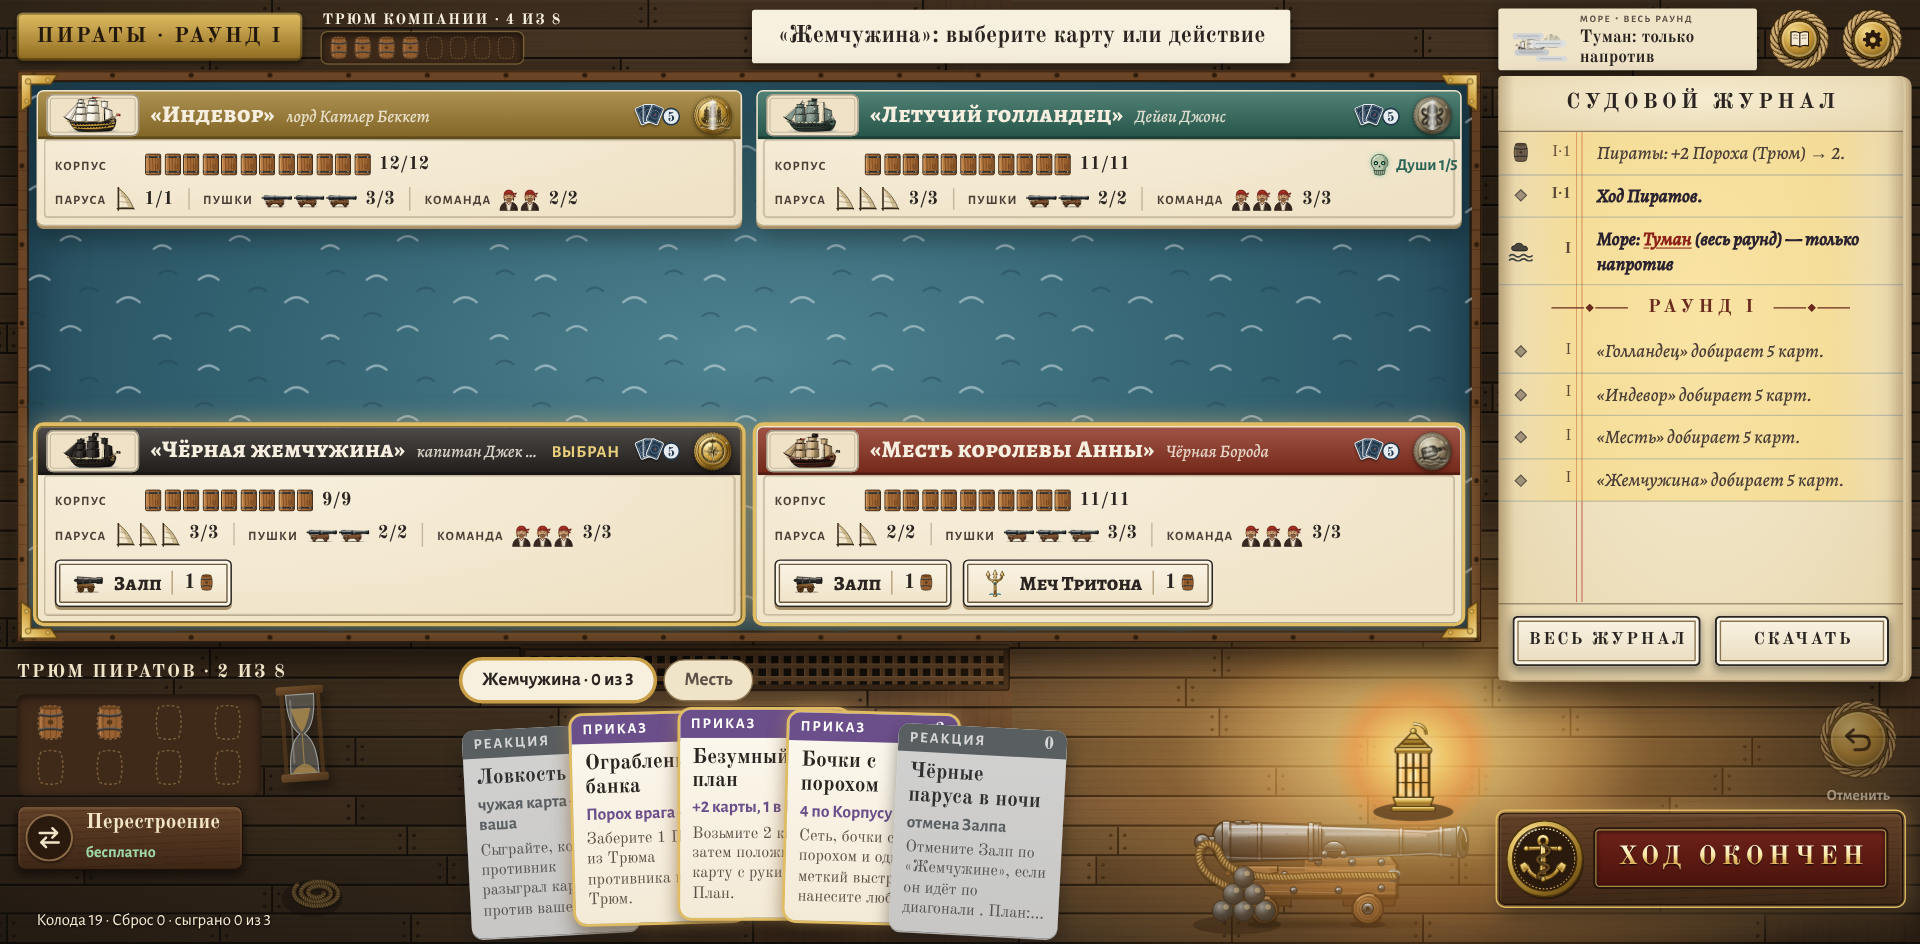
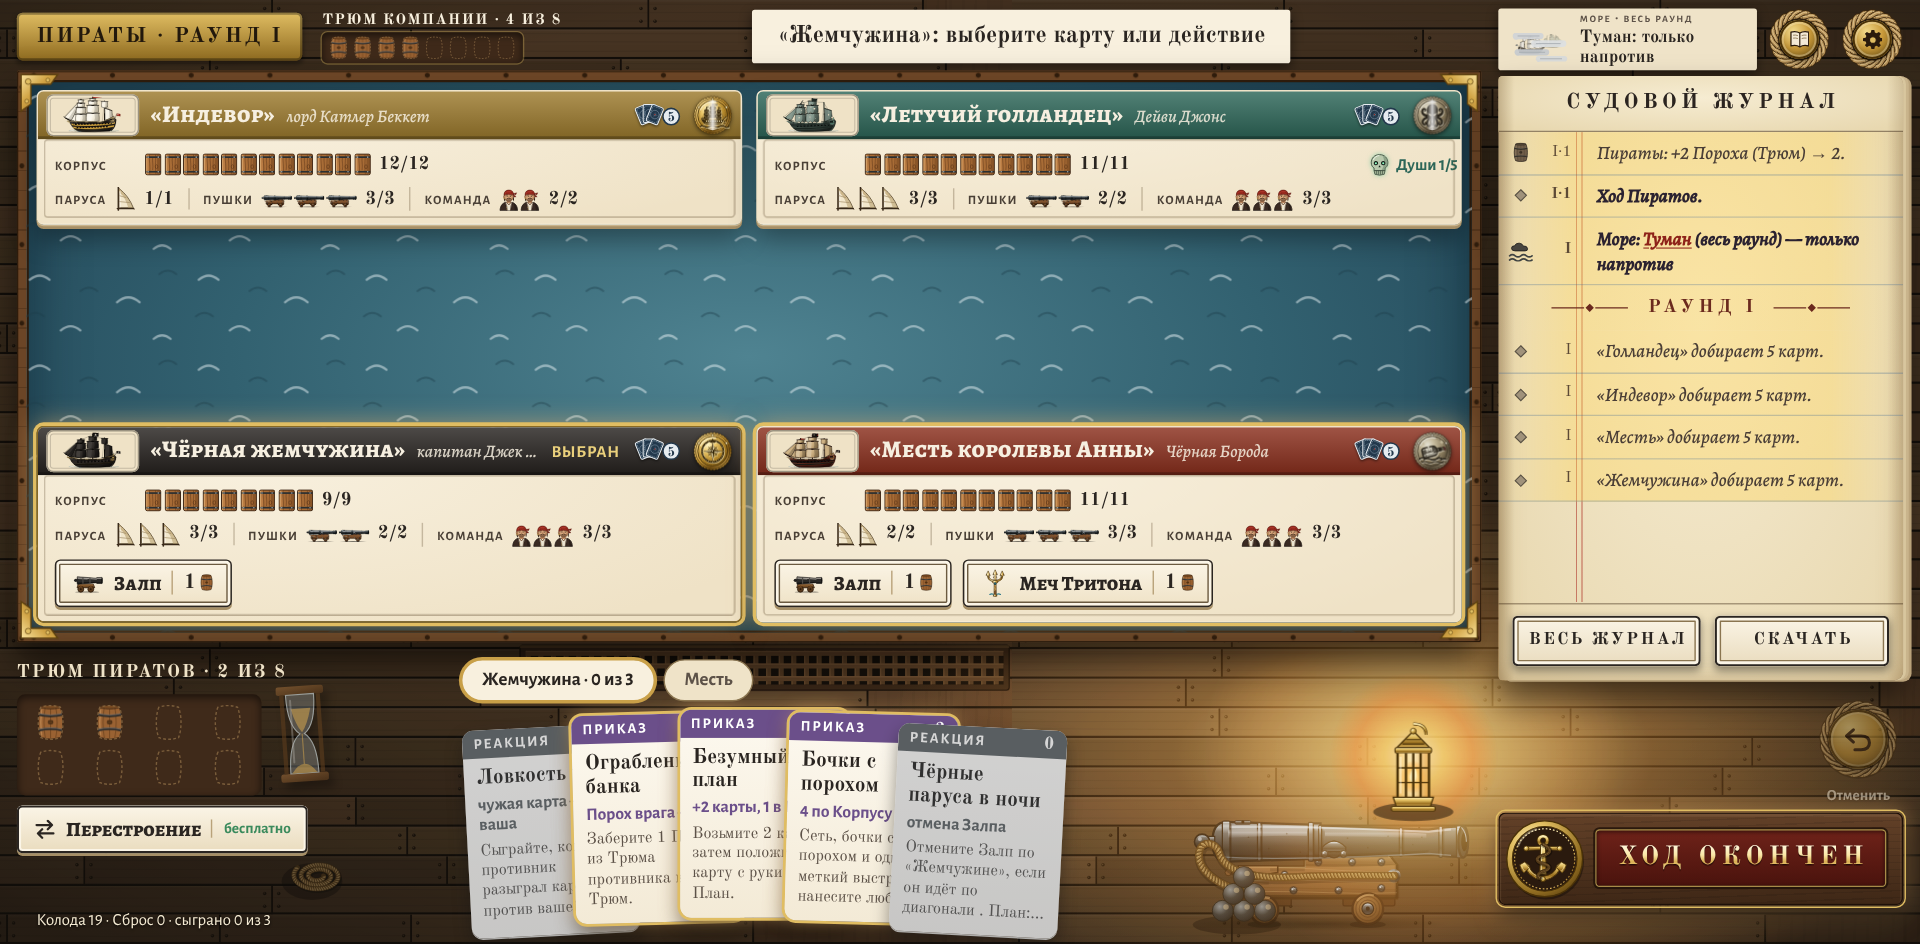
fix-ui: «Перестроение» on a laptop back as it was (the user's decision)
Claude-Session: https://claude.ai/code/session_01UXS1NUC4XPGowVXMxP1RUW

Changed region(s): [[0.0, 0.8294, 0.1875, 0.9523]]

diff --git a/src/ui/game/game.css b/src/ui/game/game.css
@@ -4479,85 +4479,6 @@ button.star::before {
   pointer-events: none;
 }
 
-/* fix-ui: «Перестроение» on a laptop as on a phone (phone.css) — a dark oak plate with a round sign, the name and under it the
-   price, a green «бесплатно»; out of one's turn it is dimmed */
-@media (min-width: 701px) {
-  .game .board-bottom > .team-row .btn.regroup {
-    min-width: 0;
-    height: 46px;
-    min-height: 0;
-    padding: 0 16px 0 6px;
-    border: 0;
-    border-radius: 6px;
-    background:
-      repeating-linear-gradient(178deg, rgba(0, 0, 0, 0.09) 0 1px, rgba(0, 0, 0, 0) 1px 5px),
-      linear-gradient(#634128, #3e2716);
-    box-shadow:
-      inset 0 0 0 1px #1e1008,
-      inset 0 1px 0 2px rgba(255, 220, 170, 0.1),
-      0 3px 6px rgba(0, 0, 0, 0.5);
-    color: #f3e6c6;
-    font-family: var(--font-num);
-    font-weight: 700;
-    font-size: 15px;
-  }
-  .game .board-bottom > .team-row .btn.regroup .cmd-in {
-    display: grid;
-    grid-template-columns: 34px auto;
-    grid-template-areas:
-      'ic name'
-      'ic cost';
-    column-gap: 9px;
-    align-items: center;
-    line-height: 1.08;
-    text-align: left;
-  }
-  .game .board-bottom > .team-row .btn.regroup .cmd-icon {
-    grid-area: ic;
-    width: 34px;
-    height: 34px;
-    border-radius: 50%;
-    display: flex;
-    align-items: center;
-    justify-content: center;
-    background: #2a1a0e;
-    box-shadow:
-      inset 0 0 0 1.5px #8a6a46,
-      0 1px 2px rgba(0, 0, 0, 0.5);
-  }
-  .game .board-bottom > .team-row .btn.regroup .cmd-icon svg {
-    width: 18px;
-    height: 16px;
-  }
-  .game .board-bottom > .team-row .btn.regroup .cmd-icon path {
-    stroke: #efe3c8;
-  }
-  .game .board-bottom > .team-row .btn.regroup .cmd-name {
-    grid-area: name;
-  }
-  .game .board-bottom > .team-row .btn.regroup .cost {
-    grid-area: cost;
-    margin: 0;
-    padding: 0;
-    border: 0;
-    font-family: var(--font-text);
-    font-size: 11.5px;
-    font-weight: 800;
-    color: #f3e6c6;
-  }
-  .game .board-bottom > .team-row .btn.regroup .cost.free {
-    color: #9fd8a8;
-  }
-  .game .board-bottom > .team-row .btn.regroup .cost-keg svg {
-    width: 10px;
-    height: 13px;
-  }
-  .game .board-bottom > .team-row .btn.regroup[aria-disabled='true'] {
-    opacity: 0.6;
-    filter: saturate(0.55);
-  }
-}
-
 /* fix-ui: «Колода N · Сброс M · сыграно K из 3» — 12 px and lighter (a laptop in both looks of the table; a phone in phone.css) */
 @media (min-width: 701px) {
   .game .hand-head .deck-info,
